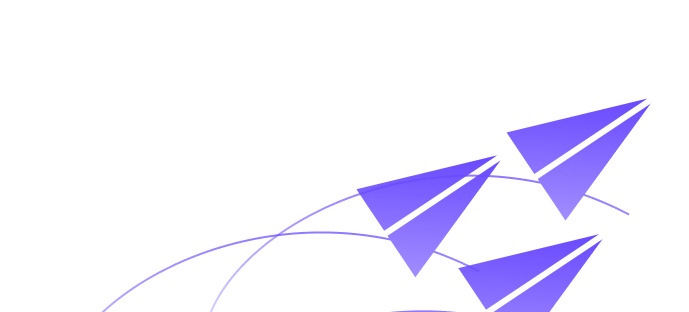
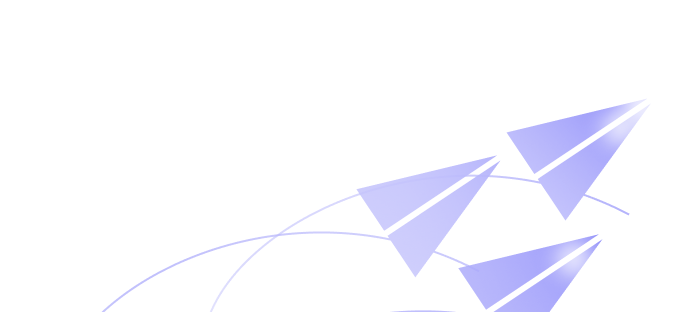
Design Update

diff --git a/src/Screens/Forgot_Password_Page/Forgot_Password_Page.tsx b/src/Screens/Forgot_Password_Page/Forgot_Password_Page.tsx
@@ -1,5 +1,12 @@
 import React, { FunctionComponent, useState } from 'react';
-import { Image, Platform, StyleSheet, View } from 'react-native';
+import {
+    Image,
+    KeyboardAvoidingView,
+    Platform,
+    ScrollView,
+    StyleSheet,
+    View,
+} from 'react-native';
 import Colors from '../../Configs/Colors/Colors';
 import BackButton from '../../Components/Back_Button/Back_Button';
 import BasicTextEntry from '../../Components/Basic_Text_Entry/Basic_Text_Entry';
@@ -12,6 +19,7 @@ import { error_handler } from '../../Utils/Error_Handler/Error_Handler';
 import { no_double_clicks } from '../../Utils/No_Double_Clicks/No_Double_Clicks';
 import { regex_email_checker } from '../../Utils/Email_Checker/Email_Checker';
 import BasicText from '../../Components/Basic_Text/Basic_Text';
+import { screen_height_less_than } from '../../Utils/Screen_Less_Than/Screen_Less_Than';
 
 const ForgotPasswordPage: FunctionComponent = () => {
     const navigation = useNavigation<NativeStackNavigationProp<any>>();
@@ -63,38 +71,52 @@ const ForgotPasswordPage: FunctionComponent = () => {
                 }}>
                 {navigation.canGoBack() && <BackButton />}
             </View>
-            <BasicText
-                inputText="Forgot Password?"
-                textWeight={700}
-                textSize={30}
-                marginLeft={22}
-                width={280}
-                marginBottom={2}
-            />
-            <BasicText
-                inputText="Enter Your Email to receive reset link."
-                textWeight={500}
-                textSize={16}
-                marginLeft={22}
-                marginRight={22}
-                textColor={Colors.Grey}
-            />
-            <BasicTextEntry
-                placeHolderText="Enter your email"
-                inputValue={email}
-                setInputValue={setEmail}
-                marginTop={20}
-                marginBottom={18}
-                inputMode="email"
-            />
-            <BasicButton
-                buttonText="Send Mail"
-                borderRadius={8}
-                marginHorizontal={22}
-                execFunc={send_mail}
-                buttonHeight={56}
-                disabled={disableButton}
-            />
+            <ScrollView style={{ flex: 1 }}>
+                <BasicText
+                    inputText="Forgot Password?"
+                    textWeight={700}
+                    textSize={30}
+                    marginLeft={22}
+                    width={280}
+                    marginBottom={2}
+                />
+                <BasicText
+                    inputText="Enter Your Email to receive reset link."
+                    textWeight={500}
+                    textSize={16}
+                    marginLeft={22}
+                    marginRight={22}
+                    textColor={Colors.Grey}
+                />
+                <BasicTextEntry
+                    placeHolderText="Enter your email"
+                    inputValue={email}
+                    setInputValue={setEmail}
+                    marginTop={20}
+                    marginBottom={18}
+                    inputMode="email"
+                />
+            </ScrollView>
+            <KeyboardAvoidingView
+                style={{ zIndex: 2 }}
+                behavior={Platform.OS === 'ios' ? 'padding' : undefined}>
+                <BasicButton
+                    buttonText="Send Mail"
+                    borderRadius={8}
+                    marginHorizontal={22}
+                    execFunc={send_mail}
+                    buttonHeight={56}
+                    disabled={disableButton}
+                    marginBottom={
+                        Platform.OS === 'ios'
+                            ? screen_height_less_than({
+                                  if_true: 10,
+                                  if_false: 40,
+                              })
+                            : 20
+                    }
+                />
+            </KeyboardAvoidingView>
             <Image
                 source={require('../../Images/Extra/Arrow_Curves_2.png')}
                 style={{
@@ -104,6 +126,7 @@ const ForgotPasswordPage: FunctionComponent = () => {
                     bottom: -65,
                     left: -75,
                     transform: [{ scale: 0.5 }],
+                    opacity: 0.25,
                 }}
             />
         </View>

diff --git a/src/Screens/Pre_Test_Page/Pre_Test_Page.tsx b/src/Screens/Pre_Test_Page/Pre_Test_Page.tsx
@@ -101,6 +101,13 @@ const PreTestPage: FunctionComponent = observer(() => {
             <KeyboardAvoidingView
                 style={{
                     flex: 1,
+                    marginBottom:
+                        Platform.OS === 'ios'
+                            ? screen_height_less_than({
+                                  if_false: 35,
+                                  if_true: 10,
+                              })
+                            : 15,
                 }}
                 behavior={Platform.OS === 'ios' ? 'padding' : undefined}>
                 <FlatList
@@ -142,21 +149,21 @@ const PreTestPage: FunctionComponent = observer(() => {
                     marginLeft={12}
                     marginRight={12}
                     paddingBottom={7}
-                    marginBottom={
-                        Platform.OS === 'ios'
-                            ? KeyboardStore.keyboard_active
-                                ? 1
-                                : screen_height_less_than({
-                                      if_false: 35,
-                                      if_true: 20,
-                                  })
-                            : KeyboardStore.keyboard_active
-                            ? screen_height_less_than({
-                                  if_true: 7,
-                                  if_false: 10,
-                              })
-                            : 8
-                    }
+                    // marginBottom={
+                    //     Platform.OS === 'ios'
+                    //         ? KeyboardStore.keyboard_active
+                    //             ? 1
+                    //             : screen_height_less_than({
+                    //                   if_false: 35,
+                    //                   if_true: 20,
+                    //               })
+                    //         : KeyboardStore.keyboard_active
+                    //         ? screen_height_less_than({
+                    //               if_true: 7,
+                    //               if_false: 30,
+                    //           })
+                    //         : 8
+                    // }
                     paddingTop={3}
                     placeHolderText="Type here.."
                     inputValue={micText}

diff --git a/src/Screens/Sign_In_Page/Sign_In_Page.tsx b/src/Screens/Sign_In_Page/Sign_In_Page.tsx
@@ -200,7 +200,7 @@ const SignInPage: FunctionComponent = () => {
                     marginBottom={
                         Platform.OS === 'ios'
                             ? screen_height_less_than({
-                                  if_true: 25,
+                                  if_true: 10,
                                   if_false: 40,
                               })
                             : 20
@@ -216,6 +216,7 @@ const SignInPage: FunctionComponent = () => {
                     bottom: -65,
                     left: -75,
                     transform: [{ scale: 0.5 }],
+                    opacity: 0.25,
                 }}
             />
         </View>

diff --git a/src/Screens/Personal_Details_Page/Personal_Details_Page.tsx b/src/Screens/Personal_Details_Page/Personal_Details_Page.tsx
@@ -365,7 +365,14 @@ const PersonalDetailsPage: FunctionComponent = () => {
                     buttonHeight={56}
                     disabled={disableButton}
                     marginTop={20}
-                    marginBottom={Platform.OS === 'ios' ? 30 : 20}
+                    marginBottom={
+                        Platform.OS === 'ios'
+                            ? screen_height_less_than({
+                                  if_true: 10,
+                                  if_false: 30,
+                              })
+                            : 20
+                    }
                 />
             </ScrollView>
             <DatePicker

diff --git a/src/Screens/Onboarding_Page/Onboarding_Page.tsx b/src/Screens/Onboarding_Page/Onboarding_Page.tsx
@@ -680,11 +680,11 @@ const OnboardingPage: FunctionComponent = () => {
                         question === TOTAL_PAGES ? submit_data : next_question
                     }
                     buttonHeight={56}
-                    marginTop={10}
+                    marginTop={2}
                     marginBottom={
                         Platform.OS === 'ios'
                             ? screen_height_less_than({
-                                  if_true: 25,
+                                  if_true: 10,
                                   if_false: 40,
                               })
                             : 20

diff --git a/src/Screens/Glossary_Page/Glossary_Page.tsx b/src/Screens/Glossary_Page/Glossary_Page.tsx
@@ -74,6 +74,13 @@ const GlossaryPage: FunctionComponent = () => {
                     paddingTop: 20,
                     marginHorizontal: 2,
                     paddingBottom: Platform.OS === 'ios' ? 25 : 5,
+                    marginBottom:
+                        Platform.OS === 'ios'
+                            ? screen_height_less_than({
+                                  if_true: 10,
+                                  if_false: 20,
+                              })
+                            : 5,
                 }}
                 ListFooterComponent={() =>
                     (

diff --git a/src/Screens/Vocabulary_Page/Vocabulary_Page.tsx b/src/Screens/Vocabulary_Page/Vocabulary_Page.tsx
@@ -228,7 +228,14 @@ const VocabularyPage: FunctionComponent = () => {
                 marginHorizontal={22}
                 buttonHeight={56}
                 marginTop={30}
-                marginBottom={Platform.OS === 'ios' ? 30 : 20}
+                marginBottom={
+                    Platform.OS === 'ios'
+                        ? screen_height_less_than({
+                              if_false: 35,
+                              if_true: 10,
+                          })
+                        : 20
+                }
             />
         </View>
     );

diff --git a/src/Screens/Lesson_Conv_Page/Lesson_Conv_Page.tsx b/src/Screens/Lesson_Conv_Page/Lesson_Conv_Page.tsx
@@ -138,9 +138,9 @@ const LessonConvPage: FunctionComponent = observer(() => {
                         Platform.OS === 'ios'
                             ? screen_height_less_than({
                                   if_false: 35,
-                                  if_true: 20,
+                                  if_true: 10,
                               })
-                            : 10,
+                            : 15,
                 }}
                 behavior={Platform.OS === 'ios' ? 'padding' : undefined}>
                 <FlatList

diff --git a/src/Screens/Verify_OTP_Page/Verify_OTP_Page.tsx b/src/Screens/Verify_OTP_Page/Verify_OTP_Page.tsx
@@ -170,7 +170,7 @@ const VerifyOTPPage: FunctionComponent = () => {
                                     ? KeyboardStore.keyboard_active
                                         ? 15
                                         : screen_height_less_than({
-                                              if_true: 30,
+                                              if_true: 10,
                                               if_false: 40,
                                           })
                                     : 20

diff --git a/src/Screens/Lesson_Archive_Page/Lesson_Archive_Page.tsx b/src/Screens/Lesson_Archive_Page/Lesson_Archive_Page.tsx
@@ -47,8 +47,8 @@ const LessonArchivePage: FunctionComponent = () => {
                     paddingBottom:
                         Platform.OS === 'ios'
                             ? screen_height_less_than({
-                                  if_true: 25,
-                                  if_false: 40,
+                                  if_true: 10,
+                                  if_false: 35,
                               })
                             : 20,
                 }}>

diff --git a/src/Screens/Parental_Control_Page/Parental_Control_Page.tsx b/src/Screens/Parental_Control_Page/Parental_Control_Page.tsx
@@ -190,7 +190,7 @@ const ParentalControlPage: FunctionComponent = () => {
                         marginBottom:
                             Platform.OS === 'ios'
                                 ? screen_height_less_than({
-                                      if_true: 30,
+                                      if_true: 10,
                                       if_false: 40,
                                   })
                                 : 20,

diff --git a/src/Screens/Home_Work_Archive_Page/Home_Work_Archive_Page.tsx b/src/Screens/Home_Work_Archive_Page/Home_Work_Archive_Page.tsx
@@ -99,8 +99,8 @@ const HomeWorkArchivePage: FunctionComponent = () => {
                 marginBottom={
                     Platform.OS === 'ios'
                         ? screen_height_less_than({
-                              if_true: 25,
-                              if_false: 40,
+                              if_true: 10,
+                              if_false: 35,
                           })
                         : 20
                 }
